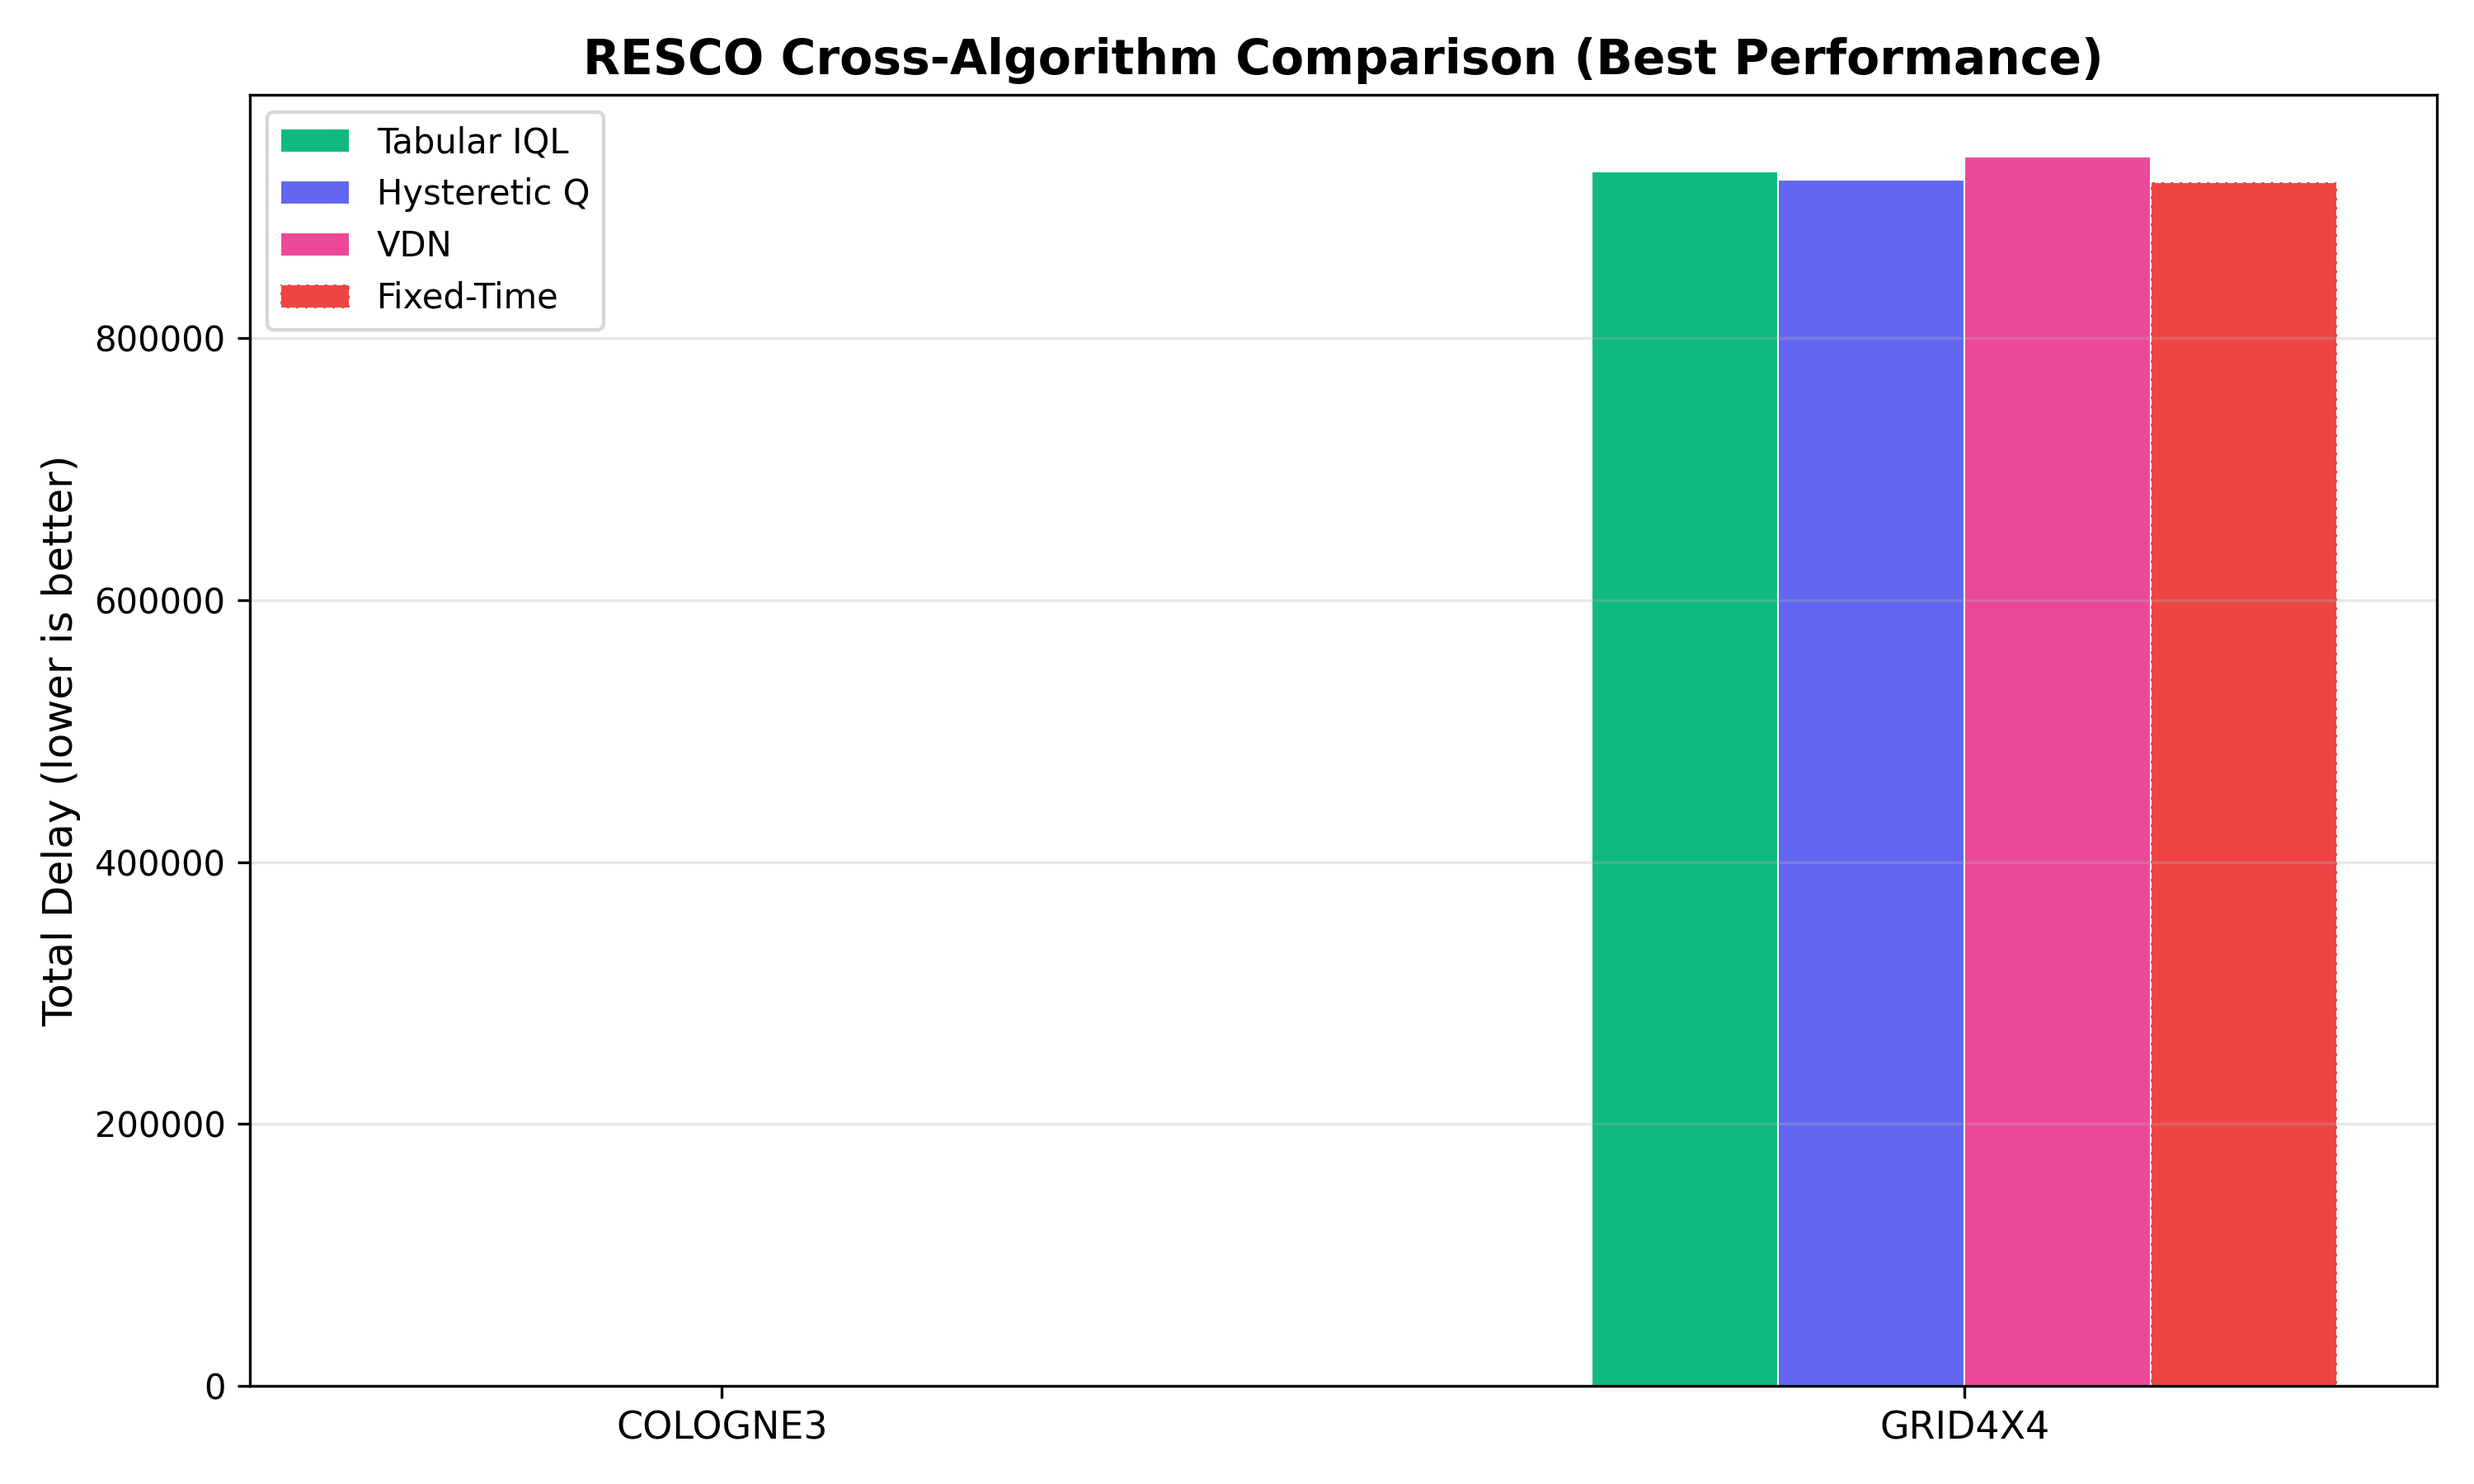
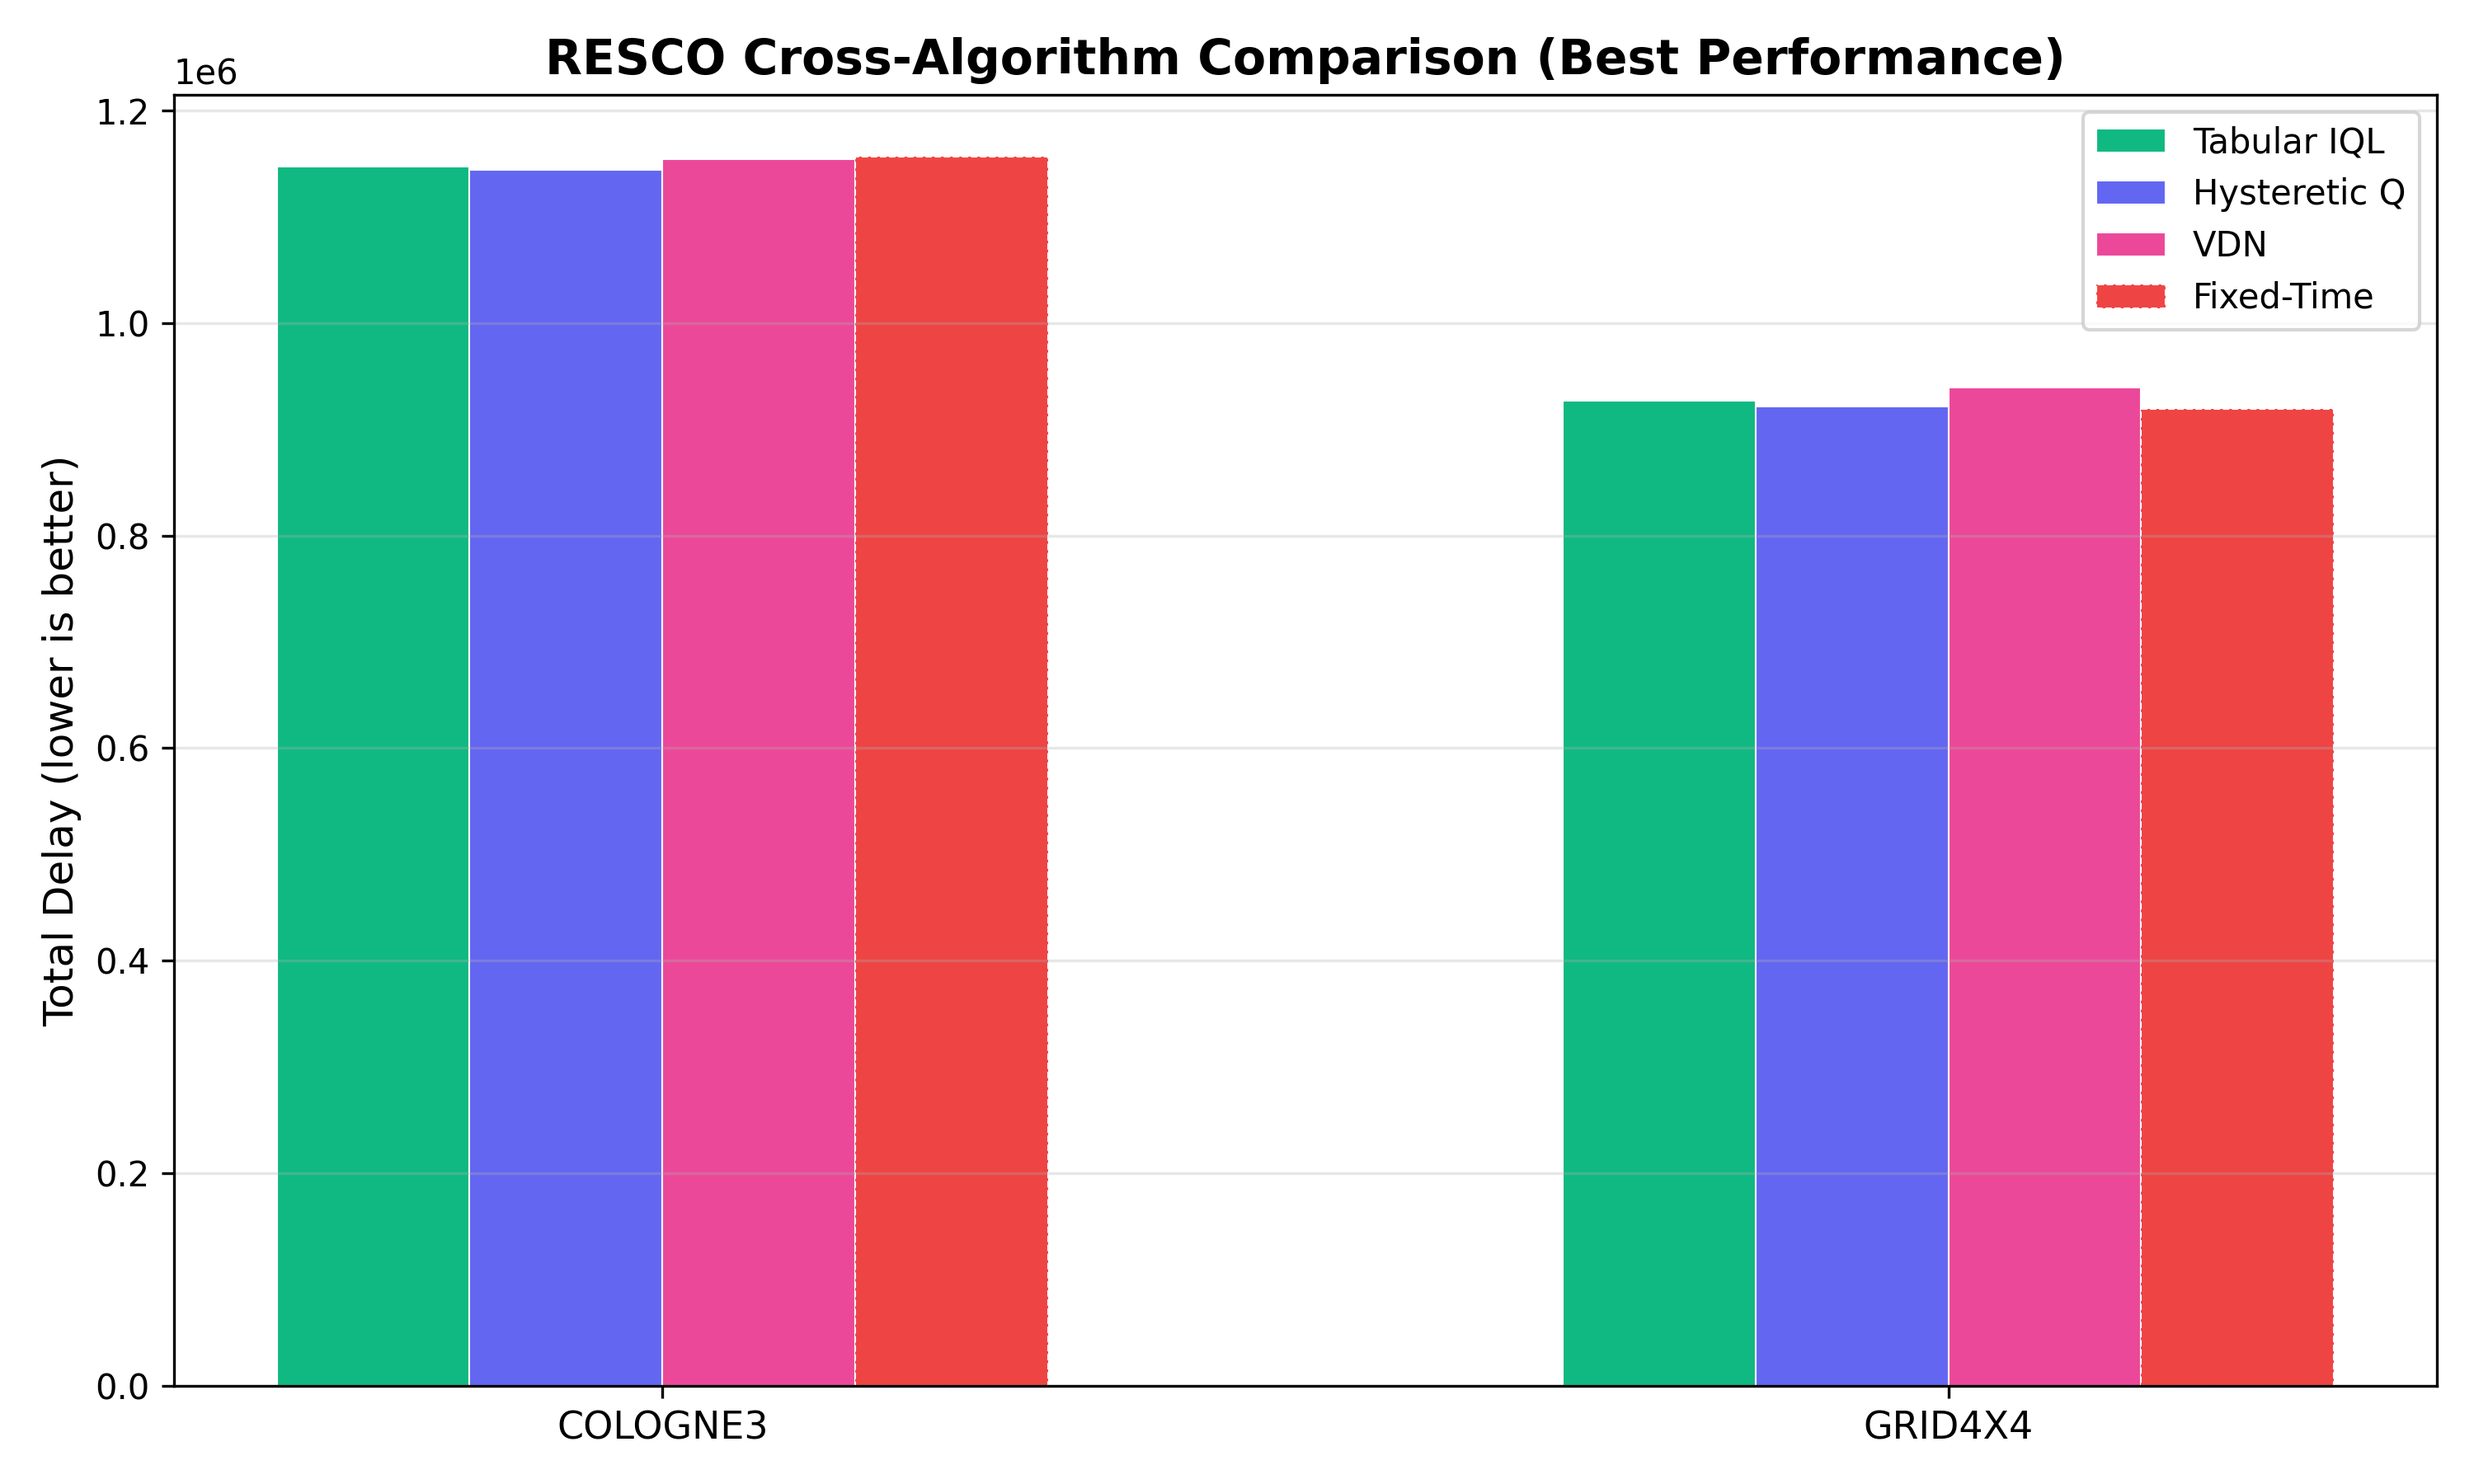
fix: update plotting script names and regenerate plots to match evaluation CSV values

diff --git a/plot_resco_results.py b/plot_resco_results.py
@@ -33,9 +33,9 @@ def plot_resco_tabular_learning_curves():
     plt.suptitle("RESCO Tabular Algorithms: Learning Curves per Scenario", fontsize=15, fontweight="bold")
     plt.tight_layout()
     os.makedirs("outputs", exist_ok=True)
-    plt.savefig("outputs/resco_tabular_learning_curves_cologne.png", dpi=300)
+    plt.savefig("outputs/resco_tabular_learning_curves.png", dpi=300)
     plt.close()
-    print("Saved outputs/resco_tabular_learning_curves_cologne.png")
+    print("Saved outputs/resco_tabular_learning_curves.png")
 
 def plot_resco_cross_algorithm_bar():
     RESCO_SCENARIOS = ["cologne3", "grid4x4"]
@@ -91,9 +91,9 @@ def plot_resco_cross_algorithm_bar():
     ax.legend(fontsize=10)
     ax.grid(axis="y", alpha=0.3)
     plt.tight_layout()
-    plt.savefig("outputs/resco_cross_algorithm_bar_cologne.png", dpi=300)
+    plt.savefig("outputs/resco_cross_algorithm_bar.png", dpi=300)
     plt.close()
-    print("Saved outputs/resco_cross_algorithm_bar_cologne.png")
+    print("Saved outputs/resco_cross_algorithm_bar.png")
 
 if __name__ == "__main__":
     try:
